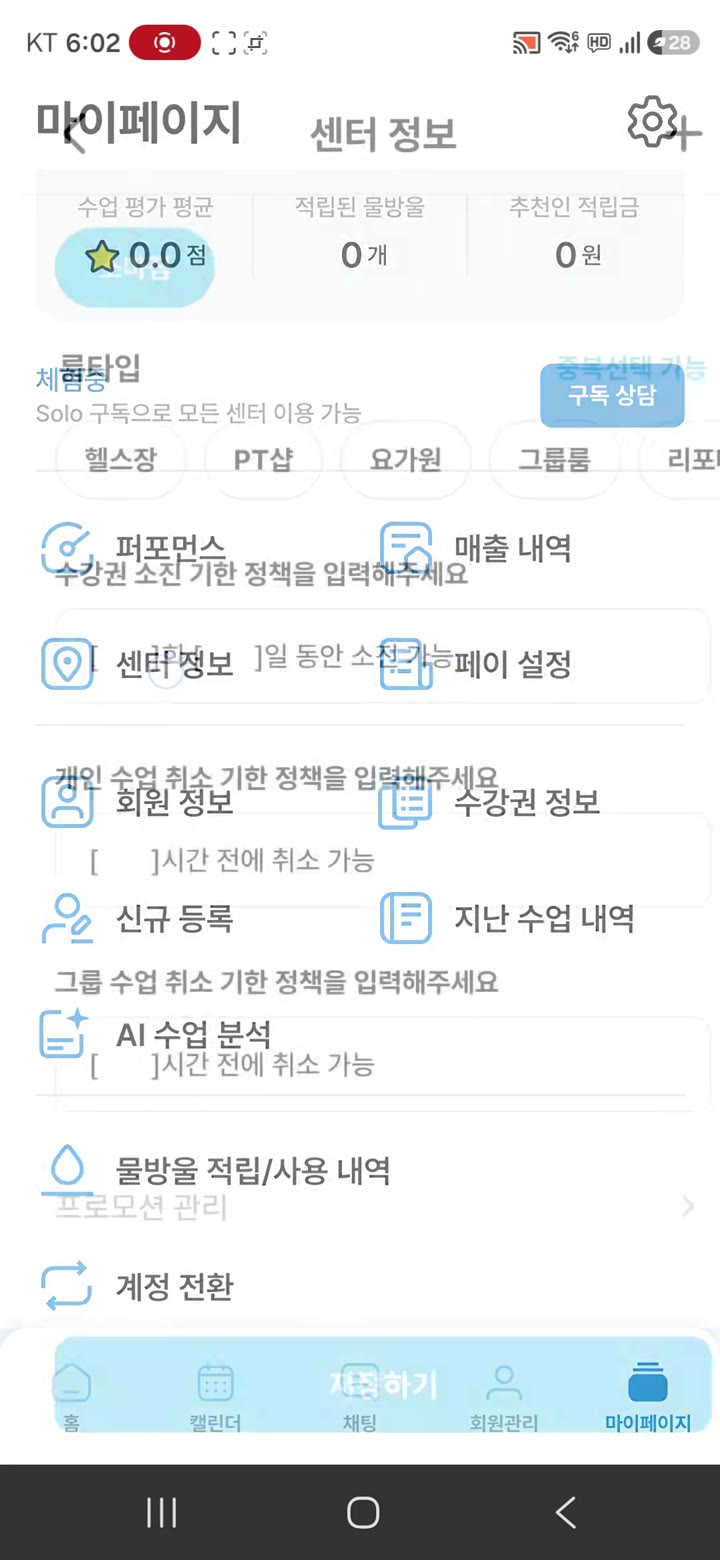
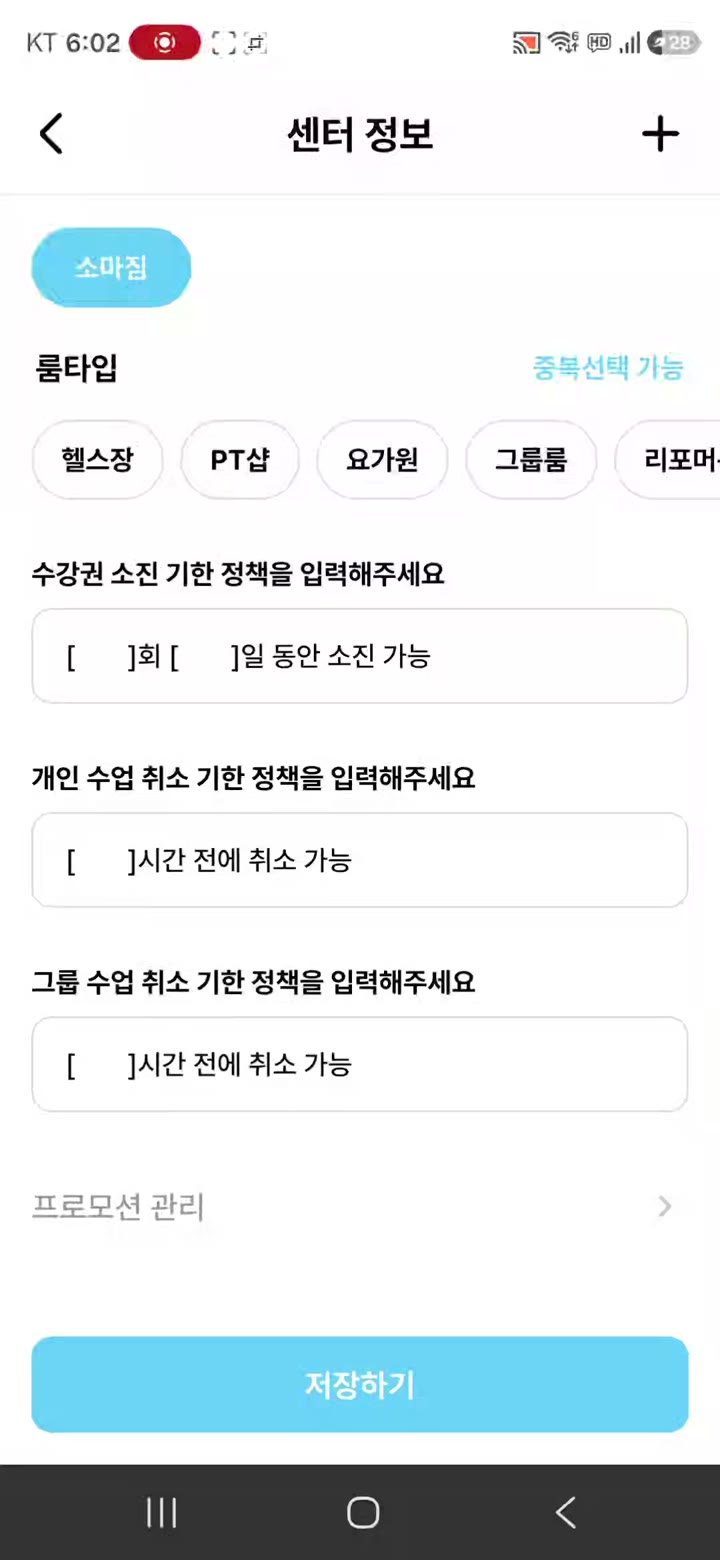
Fix /guide center settings poster frame at 3 seconds.
Avoid the transition frame where my-page and center settings UI overlap in the thumbnail.

diff --git a/scripts/generate-guide-posters.js b/scripts/generate-guide-posters.js
@@ -8,7 +8,7 @@ const outDir = path.join(root, 'images', 'guide', 'posters');
 
 const videos = [
   { id: 't-signup', src: 'images/강사가 보는 화면/강사 회원가입.mp4' },
-  { id: 't-center', src: 'images/강사가 보는 화면/센터 정보 설정하기.mp4' },
+  { id: 't-center', src: 'images/강사가 보는 화면/센터 정보 설정하기.mp4', at: 3 },
   { id: 't-member-pass', src: 'images/강사가 보는 화면/회원 및 수강권 등록.mp4' },
   { id: 't-invite', src: 'images/강사가 보는 화면/회원 소마로 초대해서 가입시키기.mp4' },
   { id: 't-book-home', src: 'images/강사가 보는 화면/홈에서 수업 예약.mp4' },
@@ -34,7 +34,7 @@ for (const video of videos) {
   }
 
   execFileSync(ff, [
-    '-ss', '1',
+    '-ss', String(video.at || 1),
     '-i', input,
     '-vframes', '1',
     '-q:v', '3',